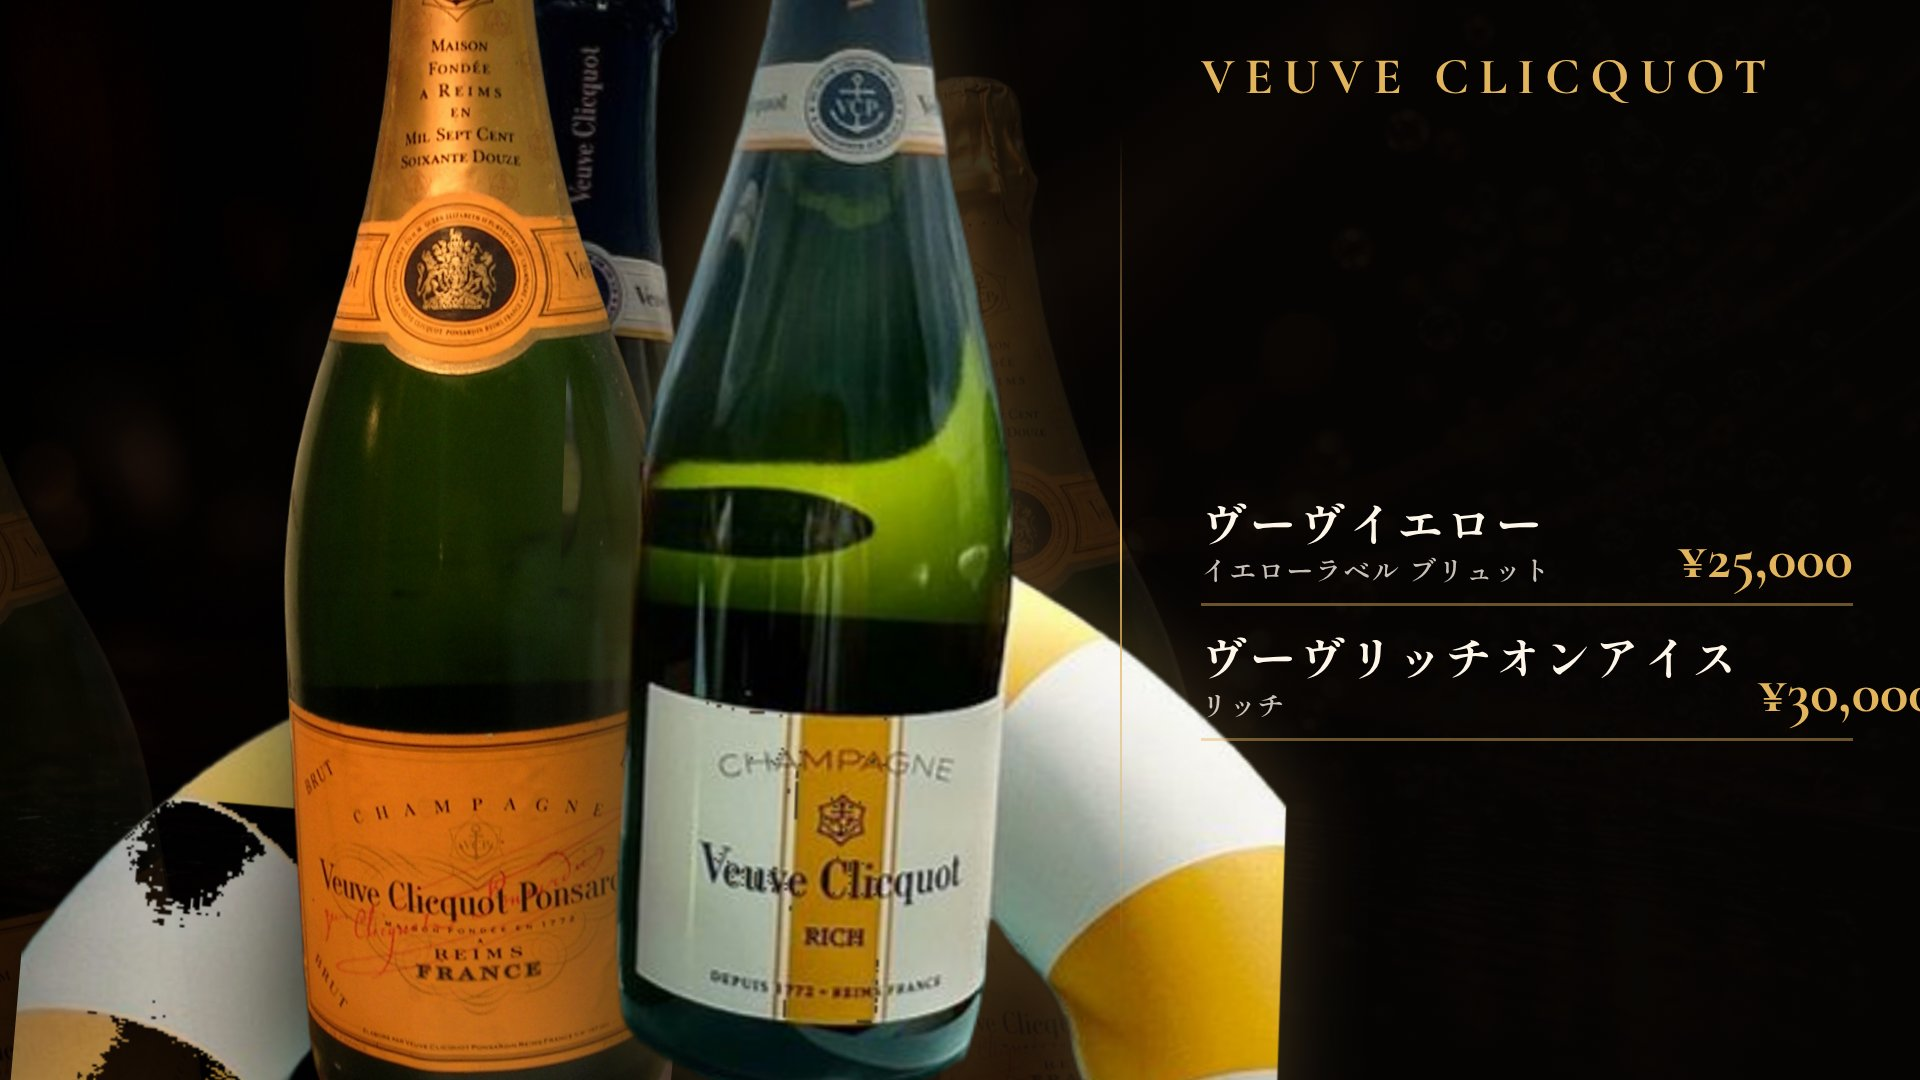
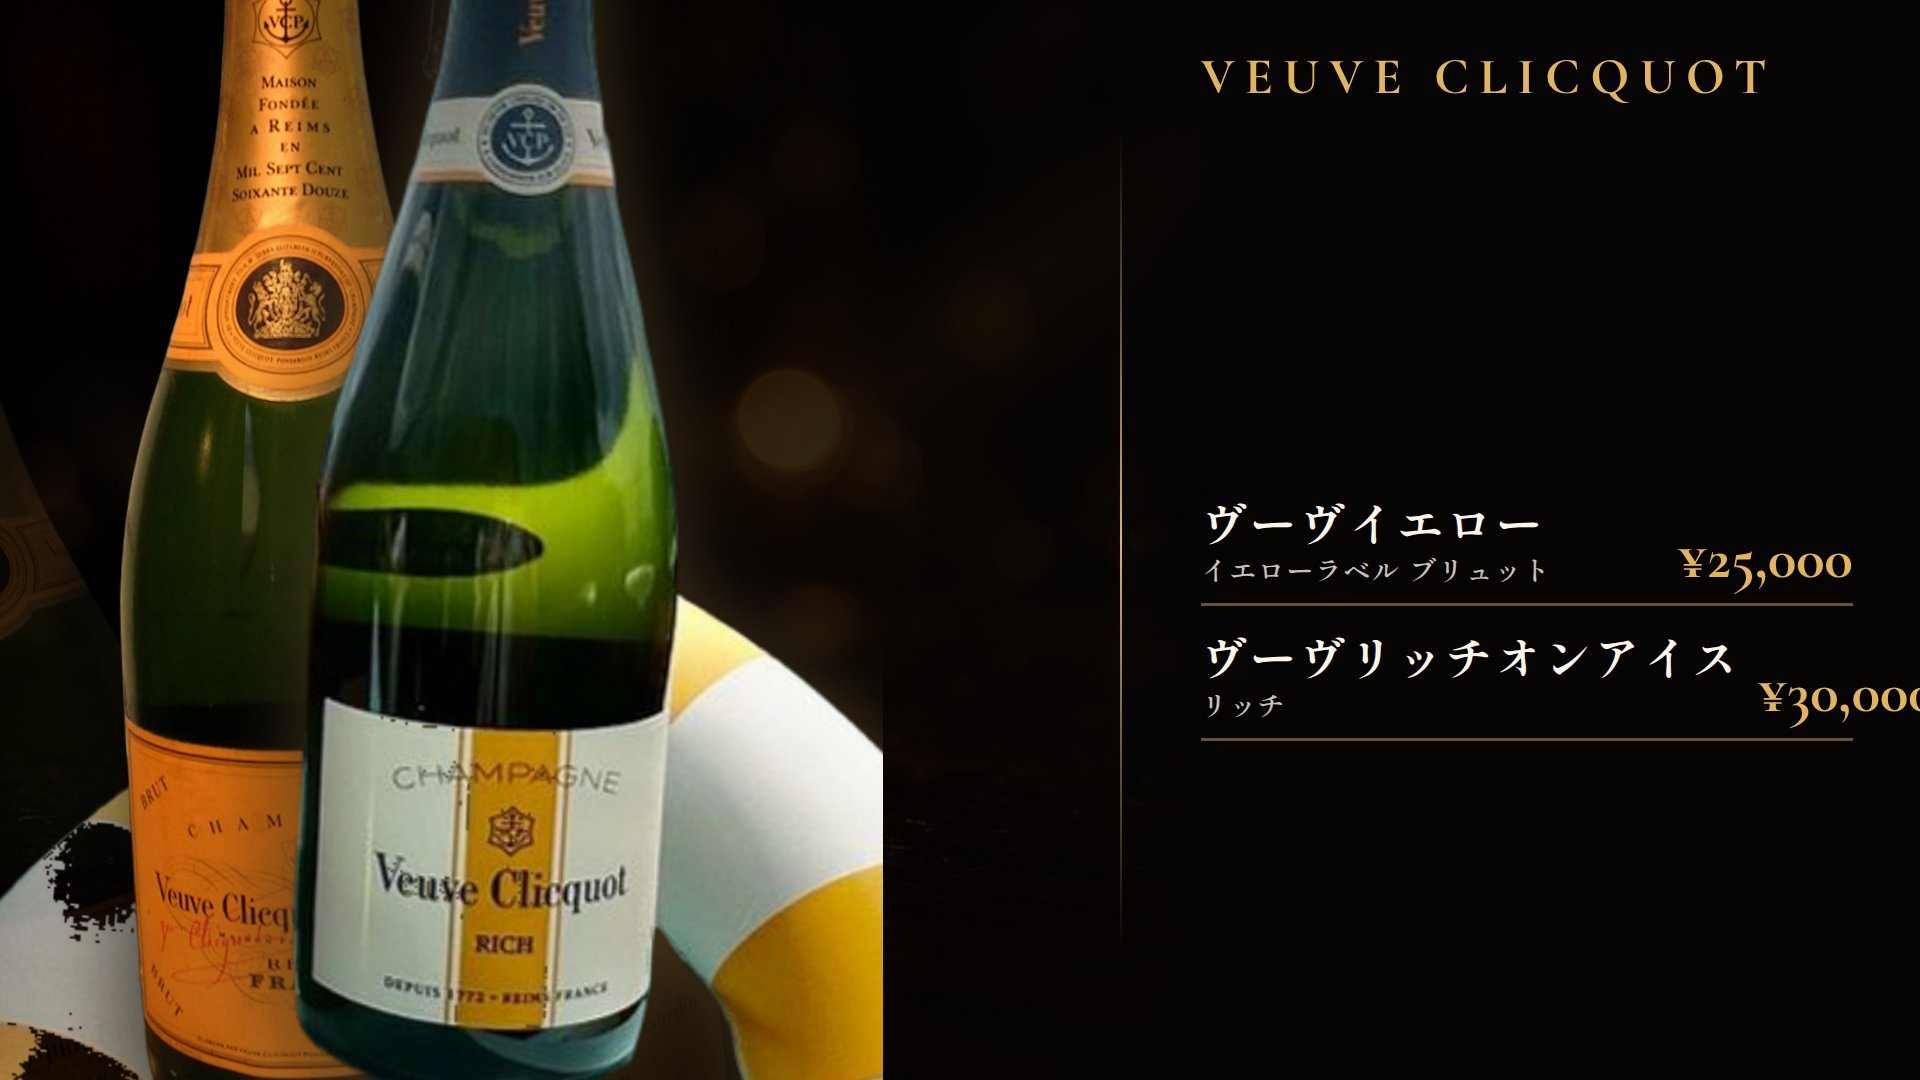
Keep Veuve bottles on the photo side of the gold rule
Clip the drama layer and opaque the menu panel so cutouts stop
invading the text column.

diff --git a/designs/final-veuve-series.css b/designs/final-veuve-series.css
@@ -1,7 +1,7 @@
 .stage{position:relative;width:100%;height:100%}
 .bg{position:absolute;inset:0;width:100%;height:100%;object-fit:cover;filter:brightness(.32)}
 .shade{position:absolute;inset:0;z-index:1}
-.drama{position:absolute;left:0;top:0;bottom:0;width:78%;z-index:2;pointer-events:none;overflow:visible}
+.drama{position:absolute;left:0;top:0;bottom:0;width:46%;z-index:2;pointer-events:none;overflow:hidden}
 .b{position:absolute;object-fit:contain;filter:drop-shadow(0 30px 60px rgba(0,0,0,.75));will-change:transform}
 .b1{z-index:1;animation:driftA 7.5s ease-in-out infinite}
 .b2{z-index:2;animation:driftB 8.5s ease-in-out infinite}
@@ -9,7 +9,7 @@
 .b4{z-index:5;animation:driftD 7.2s ease-in-out infinite}
 .b5{z-index:4;animation:driftE 9s ease-in-out infinite}
 
-.panel{position:absolute;right:0;top:0;bottom:0;width:min(56vw,800px);z-index:3;padding:0 3.5vw 6vh 4.2vw;display:flex;flex-direction:column}
+.panel{position:absolute;right:0;top:0;bottom:0;width:min(56vw,800px);z-index:3;padding:0 3.5vw 6vh 4.2vw;display:flex;flex-direction:column;background:linear-gradient(90deg,rgba(6,4,3,.55) 0%,rgba(6,4,3,.92) 18%,rgba(6,4,3,.98) 100%)}
 .panel .title-zone{flex:0 0 22%;display:flex;align-items:flex-start;padding-top:4.5vh;min-height:0}
 .panel .title{position:static;margin:0;transform:none;left:auto;right:auto;top:auto;font-size:clamp(1.9rem,3.6vw,3.2rem);letter-spacing:.2em;white-space:nowrap}
 .list{flex:1;margin-top:0;display:flex;flex-direction:column;justify-content:center;gap:2.4vh;min-height:0}
@@ -26,8 +26,8 @@
 @media (prefers-reduced-motion:reduce){.b1,.b2,.b3,.b4,.b5{animation:none!important}}
 
 .shade{background:linear-gradient(100deg,rgba(6,4,3,.04) 0%,rgba(6,4,3,.3) 34%,rgba(6,4,3,.8) 58%,rgba(6,4,3,.96) 72%)}
-.b1{left:-12%;bottom:-16%;height:105%;opacity:.18;--r1:-12deg;transform:rotate(-12deg)}
-.b2{left:4%;bottom:-12%;height:128%;opacity:.85;--r2:5deg;transform:rotate(5deg);z-index:4}
-.b3{left:18%;bottom:-8%;height:136%;opacity:1;--r3:-2deg;transform:rotate(-2deg);z-index:5}
-.b4{left:38%;bottom:-6%;height:142%;opacity:1;--r4:2deg;transform:rotate(2deg);z-index:6;filter:drop-shadow(0 0 40px rgba(226,180,92,.28)) drop-shadow(0 30px 60px rgba(0,0,0,.75))}
-.b5{left:58%;bottom:-14%;height:108%;opacity:.2;--r5:-8deg;transform:rotate(-8deg);z-index:2}
+.b1{left:-18%;bottom:-16%;height:105%;opacity:.18;--r1:-12deg;transform:rotate(-12deg)}
+.b2{left:-2%;bottom:-12%;height:122%;opacity:.8;--r2:5deg;transform:rotate(5deg);z-index:4}
+.b3{left:12%;bottom:-8%;height:132%;opacity:1;--r3:-2deg;transform:rotate(-2deg);z-index:5}
+.b4{left:28%;bottom:-6%;height:138%;opacity:1;--r4:2deg;transform:rotate(2deg);z-index:6;filter:drop-shadow(0 0 40px rgba(226,180,92,.28)) drop-shadow(0 30px 60px rgba(0,0,0,.75))}
+.b5{left:44%;bottom:-14%;height:100%;opacity:.16;--r5:-8deg;transform:rotate(-8deg);z-index:2}
